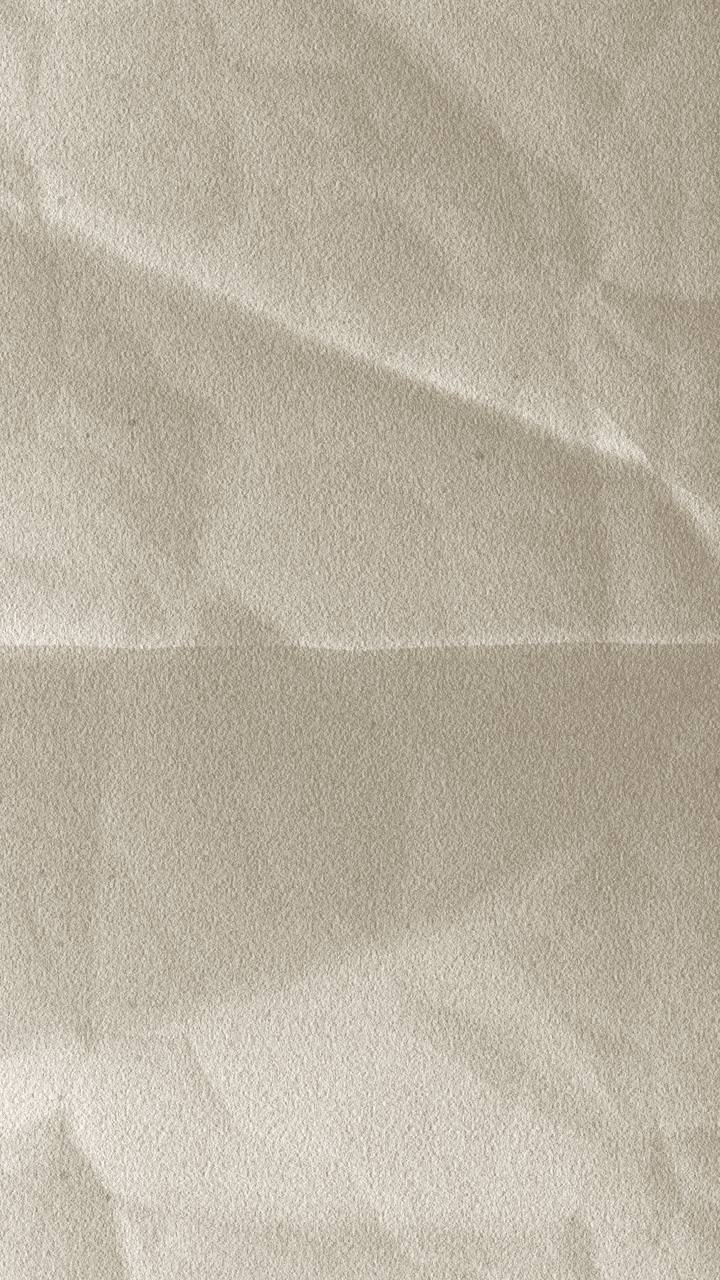
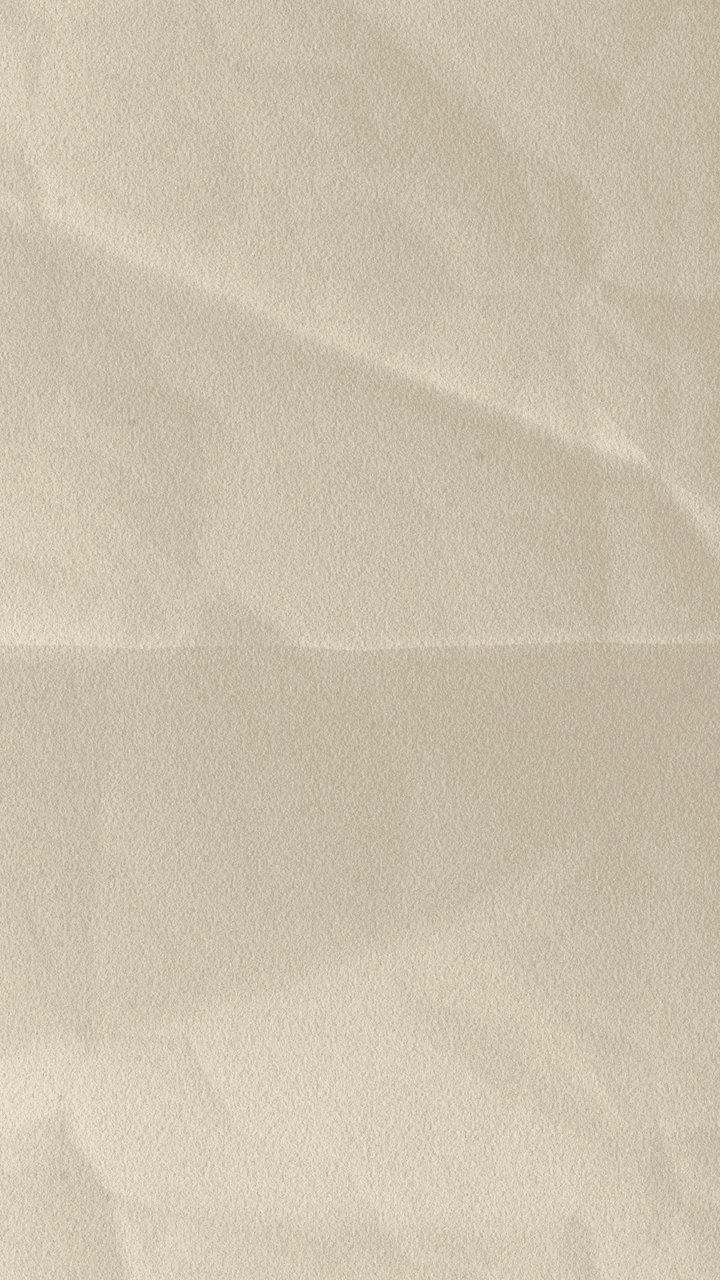
Site: paper texture scrolls with the page instead of staying fixed
Claude-Session: https://claude.ai/code/session_018sga1VsKU7f9FwU1Wepg66

Changed region(s): [[0.0, 0.0, 1.0, 0.9688], [0.7944, 0.9688, 0.825, 1.0], [0.6722, 0.8125, 0.7028, 0.8438]]

diff --git a/styles.css b/styles.css
@@ -25,16 +25,10 @@
 html { -webkit-text-size-adjust: 100%; }
 body {
   margin: 0;
-  background: var(--paper);
+  /* Real paper texture (Paper Shaders still) that scrolls with the page like a printed sheet. */
+  background: var(--paper) url("img/paper.jpg") top center / 100% auto repeat-y;
   color: var(--ink);
   font: 400 18px/1.6 var(--body);
-  position: relative;
-}
-/* Real paper texture (Paper Shaders still), pinned behind the page so the folds don't repeat. */
-body::before {
-  content: ""; position: fixed; inset: 0; z-index: -1; pointer-events: none;
-  background: url("img/paper.jpg") center / cover no-repeat;
-  opacity: 0.55; mix-blend-mode: multiply;
 }
 img { max-width: 100%; height: auto; display: block; }
 a { color: var(--blue); text-underline-offset: 3px; text-decoration-thickness: 1px; }
